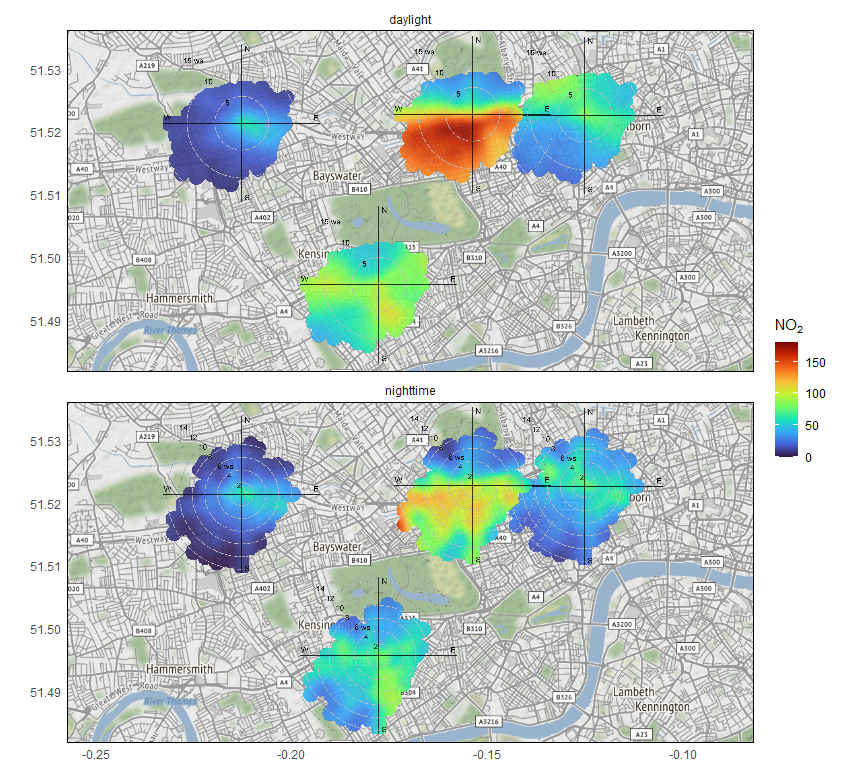
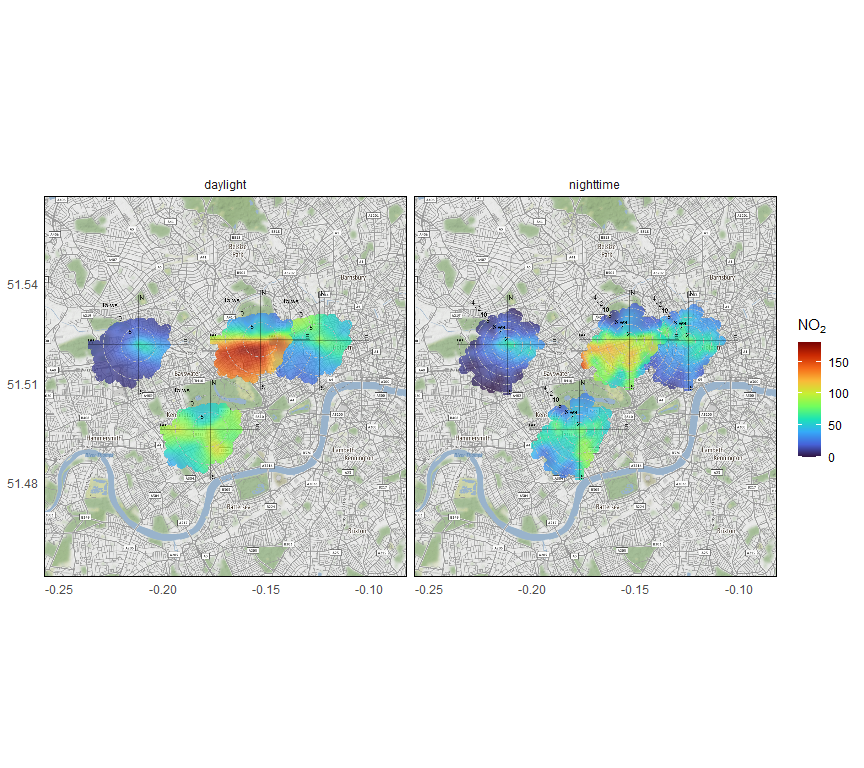
docs: update README

diff --git a/README.md b/README.md
@@ -81,8 +81,9 @@ polar_data %>%
     pollutant = "no2",
     limits = c(0, 180),
     facet = "daylight",
-    facet.nrow = 2,
-    alpha = .9
+    alpha = .75, 
+    d.icon = 100,
+    d.fig = 2.5
   )
 ```
 
